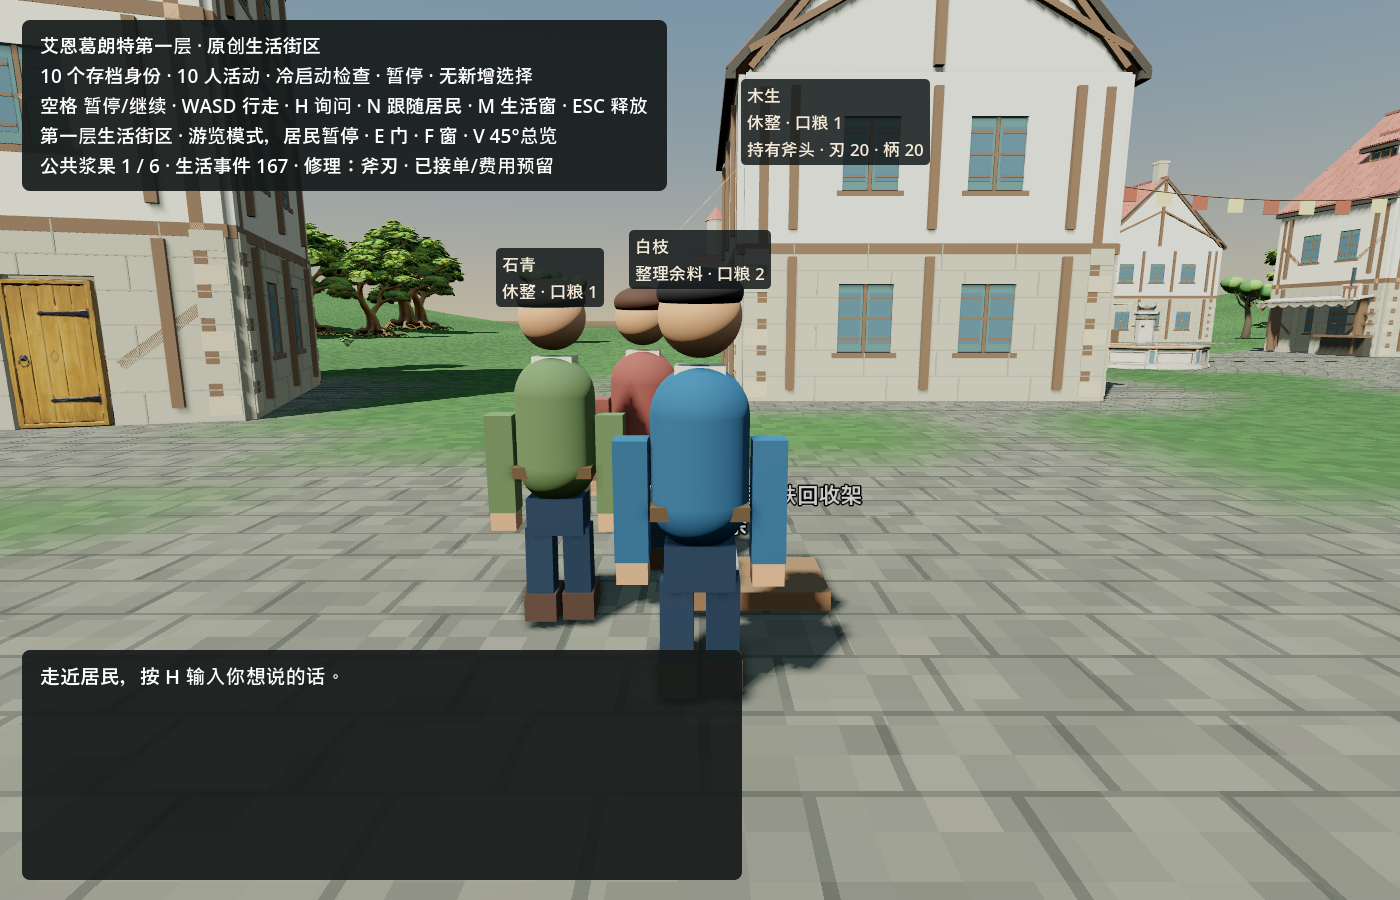
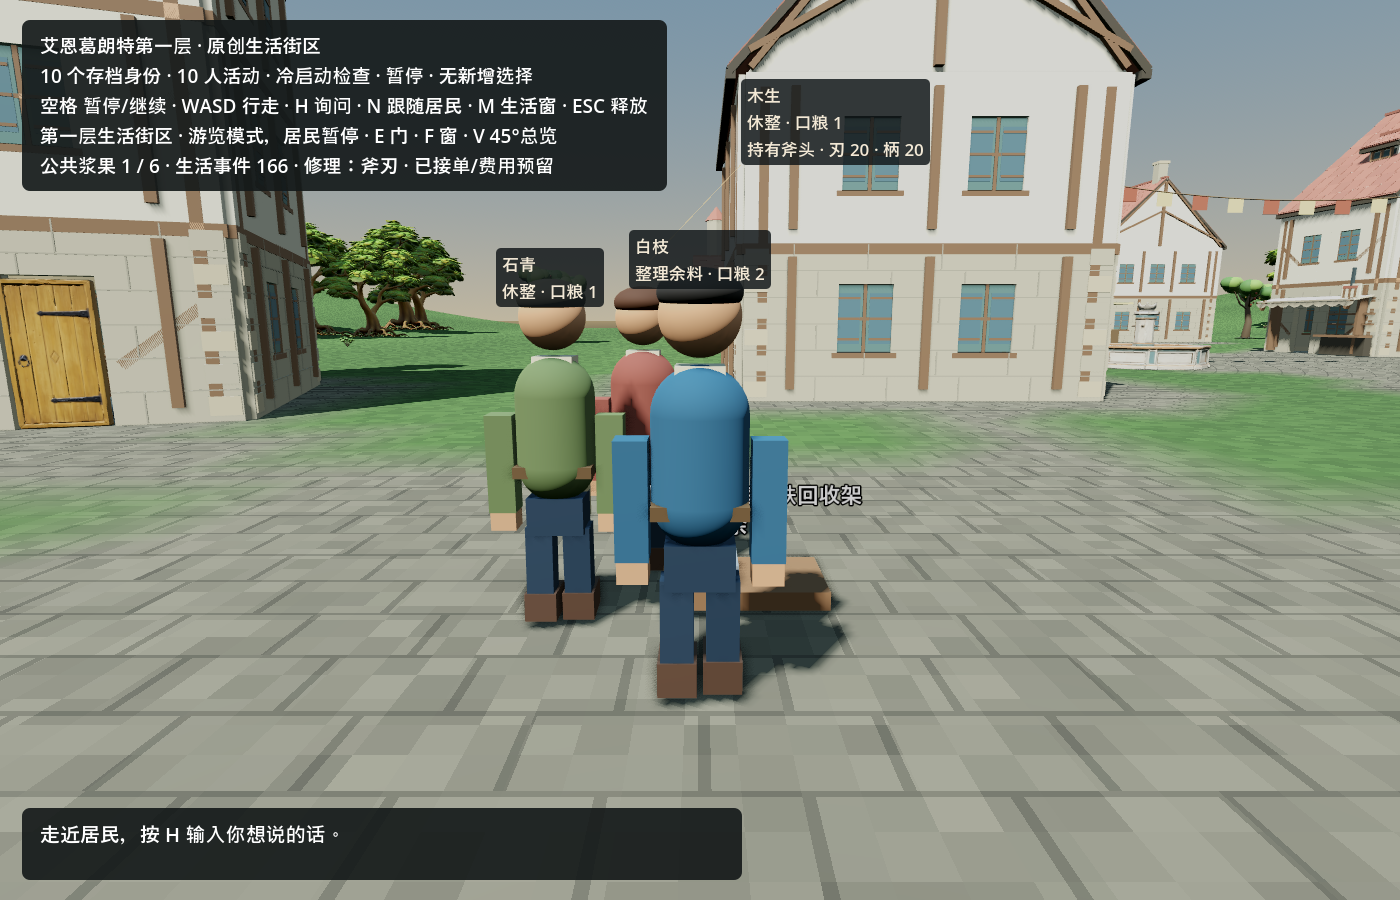
Add double-click living world profile

Changed region(s): [[0.0, 0.7156, 0.5529, 0.9333]]

diff --git a/docs/validation/night-20260918-sol-life.md b/docs/validation/night-20260918-sol-life.md
@@ -30,6 +30,8 @@
 
 这条真实路径的关键场景参数仍是 `res://scenes/town_street.tscn -- --town-save=<same-world> --town-gateway`。`Ledger / Config / Out` 缺任意一项都会报错且什么也不启动；也不会暗中退回脚本生活。既没有完整 live 三件套、也没有显式 `-ObserveOnly` 时同样拒绝启动。本次首轮验证产生 0 个模型调用。
 
+普通用户可把 [StartLiving.local.example.json](../../StartLiving.local.example.json) 复制为被 Git 忽略的 `private/night-delivery/start-living.local.json`，只填写现有存档、Godot、授权配置和账本的**路径**，之后直接双击 `StartLiving.cmd`。`mode=live` 会调用同一个有界真实 AI runner，并在 `out_root` 下逐次建立带时间戳的新目录；`mode=observe_only` 明确打开无新决定回看。可配置带时区的 `expires_at` 和 `on_expiry=observe_only`：到期时启动器会显示警告并只读回看，不创建、补充、重置或延长账本。该本机 JSON 不应写 token，也不会进入 Git。
+
 ## 玩家实际能看到什么
 
 右侧新增一个只读生活窗口：
@@ -37,7 +39,7 @@
 - 十位居民全部具名列出，逐人显示当前世界工作；身体有水平速度时显示“行走中”。
 - gateway／恢复模式显示每个人自己的 durable resident-turn 状态，并用启动时的 request id 区分“历史决定”和“本次决定”，不把一个公共模型状态冒充十个人。
 - 最近五条公开交流或生活结果来自 `life.events`；只有 `source=opengameagent_live` 才标为 AI，并按启动时的 life seq 明示“历史 AI”或“本次 AI”。界面不生成文本、不选择动作、不展示私有理由。
-- 原有近身姓名牌、真实身体动画、公开对话框、玩家 `H` 询问、门窗和俯瞰仍在同一个世界中。`N` 依次跟随十位真实身体，`M` 收起／展开生活窗；观察相机只读身体坐标，不移动居民、玩家或工作目标。
+- 原有近身姓名牌、真实身体动画、公开对话框、玩家 `H` 询问、门窗和俯瞰仍在同一个世界中。无对话时底部仅保留一行提示，按 `H` 输入或出现真实对话文本时恢复完整面板。`N` 依次跟随十位真实身体，`M` 收起／展开生活窗；观察相机只读身体坐标，不移动居民、玩家或工作目标。
 - HUD 将场景如实标为“艾恩葛朗特第一层 · 原创生活街区”，不把这组原创 16 栋布局冒充原著“起始之城”或托尔巴纳的精确地图。
 
 ![生活现场 HUD：十人活动与公开交流](night-20260918-sol-life/living-world-hud.png)
